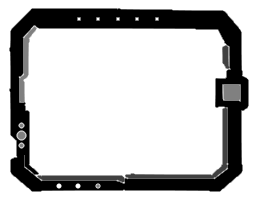
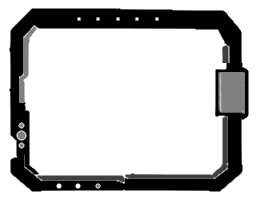
Added locking system, better shooting
New system where the player can go from turret mode to spaceship mode
and they nicely blend together.

Changed region(s): [[0.8, 0.3, 0.9846, 0.6]]

diff --git a/TurretProject/Player.cpp b/TurretProject/Player.cpp
@@ -47,21 +47,48 @@ void Player::Initialise()
 	{
 		// error...
 	}
+	if (!m_lockedTexture.loadFromFile("lock.png"))
+	{
+		// error...
+	}
+	if (!m_unlockedTexture.loadFromFile("unlock.png"))
+	{
+		// error...
+	}
+	if (!m_lockingTexture.loadFromFile("locking.png"))
+	{
+		// error...
+	}
+	if (!m_landingzoneTexture.loadFromFile("landingzone.png"))
+	{
+		// error...
+	}
+
 	m_sprite.setTexture(m_texture);
 	m_sprite.setOrigin(40, 35);//40,40
+
+	m_lockSprite.setTexture(m_lockedTexture);
+	m_landingzoneSprite.setTexture(m_landingzoneTexture);
+
+	lockSpeed = 50;
+
 	m_radius = 30;
 	m_speed = 100;
 	maxSpeed = 500;
 	forward_speed = 0;
-	m_rotation = -90;
+	m_rotation = 270;
 	m_direction = sf::Vector2f(cos(toRadians(m_rotation)), sin(toRadians(m_rotation)));
-	m_pos = sf::Vector2f(1350, 1800);
+	m_pos = startPos;
 	m_sprite.setPosition(m_pos);
+	m_lockSprite.setPosition(227, 628);
+	m_landingzoneSprite.setPosition(1130,1500);
 	fired = false;
 	firedTime = 0;
 	firedTimeControl = 0.2;
 	fireSide = false;
-	
+	locked = true;
+	turretMode = TURRET;
+
 	buffer.loadFromFile("blaster-firing.wav");
 	sound.setBuffer(buffer);
 }
@@ -91,6 +118,10 @@ void Player::Update(float time)
 		m_sprite.setColor(sf::Color::Magenta);				//sf::Color(50, 190, 150));
 	}
 
+	if (locked == true && turretMode == LOCKING)
+		slowLock(time);
+
+
 	Move(time);
 	WrapAroundScreen();
 	text[3].setString(to_string(Score::GetInstance()->getScore()));
@@ -114,42 +145,59 @@ void Player::Move(float time)
 	m_sprite.setPosition(m_pos);
 	m_sprite.setRotation(m_rotation);
 
-	if (sf::Keyboard::isKeyPressed(sf::Keyboard::Right))
+	if (sf::Keyboard::isKeyPressed(sf::Keyboard::Right) && turretMode != LOCKING)
 	{
 		Rotation(1, time);
 	}
-	else if (sf::Keyboard::isKeyPressed(sf::Keyboard::Left) )
+	else if (sf::Keyboard::isKeyPressed(sf::Keyboard::Left) && turretMode != LOCKING)
 	{
 		Rotation(-1, time);
 	}
-
-	if (sf::Keyboard::isKeyPressed(sf::Keyboard::Up))
+	if (locked == false)
 	{
-		if (forward_speed <= maxSpeed)
-			forward_speed += 10;
-		for (int i = 0; i < 5;i++)
-			ParticleSystem::GetInstance()->addParticle(m_pos,1);
+		if (sf::Keyboard::isKeyPressed(sf::Keyboard::Up))
+		{
+			if (forward_speed <= maxSpeed)
+				forward_speed += 10;
+			for (int i = 0; i < 5; i++)
+				ParticleSystem::GetInstance()->addParticle(m_pos, 1);
+		}
+		else if (sf::Keyboard::isKeyPressed(sf::Keyboard::Down))
+		{
+			if (forward_speed >= 10)
+				forward_speed -= 10;
+		}
+		else if (forward_speed >= 3)
+			forward_speed -= 3;
 	}
-	else if (sf::Keyboard::isKeyPressed(sf::Keyboard::Down))
-	{
-		if (forward_speed >= 10)
-			forward_speed -= 10;
-	}
-	else if (forward_speed >= 3)
-		forward_speed -= 3;
-
-	if (sf::Keyboard::isKeyPressed(sf::Keyboard::Space) && fired == false && Energy::GetInstance()->GetEnergy() >= 0.25)
+	if (sf::Keyboard::isKeyPressed(sf::Keyboard::Space) && fired == false && Energy::GetInstance()->GetEnergy() >= 0.25 && turretMode != LOCKING)
 	{
 		sound.play();
 		Energy::GetInstance()->Shot1();
 
 		if (fireSide == false)
-			BulletManager::GetInstance()->PlayerFire(m_rotation, sf::Vector2f(m_pos.x - 17 + (m_direction.x * 35), m_pos.y + (m_direction.y * 35)));	//(m_pos.x - 17 + (m_direction.x * 120), m_pos.y + (m_direction.y * 120))	// cos(toRadians(m_rotation)
-		else 
-			BulletManager::GetInstance()->PlayerFire(m_rotation, sf::Vector2f(m_pos.x + 10 + (m_direction.x * 35), m_pos.y + (m_direction.y * 35)));	//(m_pos.x + 10 + (m_direction.x * 120), m_pos.y + (m_direction.y * 120))	// sin(toRadians(m_rotation)
+		{
+			float xBefore = 10;
+			float yBefore = -25;
+			float xAfter = xBefore * cos(toRadians(m_rotation)) - yBefore * sin(toRadians(m_rotation));
+			float yAfter = xBefore * sin(toRadians(m_rotation)) + yBefore * cos(toRadians(m_rotation));
+
+		
+			BulletManager::GetInstance()->PlayerFire(m_rotation, sf::Vector2f(m_pos.x + xAfter, m_pos.y + (yAfter)));	//(m_pos.x - 17 + (m_direction.x * 120), m_pos.y + (m_direction.y * 120))	// cos(toRadians(m_rotation)
+		}
+		else
+		{
+			float xBefore = 10;
+			float yBefore = 25;
+			float xAfter = xBefore * cos(toRadians(m_rotation)) - yBefore * sin(toRadians(m_rotation));
+			float yAfter = xBefore * sin(toRadians(m_rotation)) + yBefore * cos(toRadians(m_rotation)) ;
+		
+			BulletManager::GetInstance()->PlayerFire(m_rotation, sf::Vector2f(m_pos.x + xAfter, m_pos.y + (yAfter)));	//(m_pos.x + 10 + (m_direction.x * 120), m_pos.y + (m_direction.y * 120))	// sin(toRadians(m_rotation)
+		}
 
 		fired = true;
 	}
+
 
 	if (fired == true)
 	{
@@ -166,10 +214,25 @@ void Player::Move(float time)
 		}
 	}
 
+
+	if (sf::Keyboard::isKeyPressed(sf::Keyboard::U) && locked == true && turretMode == TURRET)
+	{
+		unlockStuff();
+	}
+	if (sf::Keyboard::isKeyPressed(sf::Keyboard::L) && locked == false && isInLockZone() == true)
+	{
+		lockStuff();
+	}
+
 }
 
 void Player::Draw(sf::RenderWindow& window)
 {
+	if (locked == false)
+	{
+		window.draw(m_landingzoneSprite);
+	}
+
 	window.draw(m_sprite);
 	/*for (int i = 0; i < MAX_NUMBER_OF_ITEMS; i++)
 	{
@@ -185,6 +248,11 @@ void Player::DrawScore(sf::RenderWindow& window)
 	}
 }
 
+void Player::DrawLock(sf::RenderWindow& window)
+{
+	window.draw(m_lockSprite);
+}
+
 float Player::toRadians(float degrees)
 {
 	return (degrees * 3.14) / 180;
@@ -194,6 +262,17 @@ void Player::Rotation(int dir, float t)
 {
 	m_rotation += 1.5 * m_speed * t * dir;
 	m_direction = sf::Vector2f(cos(toRadians(m_rotation)), sin(toRadians(m_rotation)));
+
+
+	if (m_rotation >= 360)
+	{
+		m_rotation = m_rotation - 360;
+	}
+	else if (m_rotation < 0)
+	{
+		m_rotation = 360 - m_rotation;
+	}
+
 }
 
 void Player::WrapAroundScreen()
@@ -207,4 +286,62 @@ void Player::WrapAroundScreen()
 		m_pos.y = 0;
 	else if (m_pos.y < 0)
 		m_pos.y = 1800;
+}
+
+bool Player::isInLockZone()	//checking if the player is in the landing zone and can lock into turret
+{//1130,1500
+	if (m_pos.x > 1130 && m_pos.x < 1550 && m_pos.y > 1500 && m_pos.y < 1800)
+		return true;
+	else
+		return false;
+}
+
+void Player::lockStuff()		//things to do when locked
+{
+	m_lockSprite.setTexture(m_lockingTexture);
+	forward_speed = 0;
+	turretMode = LOCKING;
+	locked = true;
+}
+
+void Player::unlockStuff()		//things to do when unlocked
+{
+	m_lockSprite.setTexture(m_unlockedTexture);
+	forward_speed = 250;
+	turretMode = SPACESHIP;
+	m_direction = sf::Vector2f(cos(toRadians(m_rotation)), sin(toRadians(m_rotation)));
+	locked = false;
+}
+
+void Player::slowLock(float t)
+{
+	if (m_pos.x < startPos.x + 3 && m_pos.x > startPos.x - 3)
+		m_pos.x = startPos.x;
+	else if (m_pos.x < startPos.x)
+		m_pos.x += lockSpeed * t;
+	else if (m_pos.x > startPos.x)
+		m_pos.x -= lockSpeed * t;
+
+	if (m_pos.y < startPos.y + 3 && m_pos.y > startPos.y - 3)
+		m_pos.y = startPos.y;
+	else if (m_pos.y < startPos.y)
+		m_pos.y += lockSpeed * t;
+	else if (m_pos.y > startPos.y)
+		m_pos.y -= lockSpeed * t;
+
+	if (m_rotation < 272 && m_rotation > 268)
+		m_rotation = 270;
+	else if (m_rotation > 270)
+		m_rotation -= lockSpeed * t;
+	else if (m_rotation < 270)
+		m_rotation += lockSpeed * t;
+	
+	m_direction = sf::Vector2f(cos(toRadians(m_rotation)), sin(toRadians(m_rotation)));
+
+
+	if (m_pos == startPos && m_rotation == 270)
+	{
+		turretMode = TURRET;
+		m_lockSprite.setTexture(m_lockedTexture);
+	}
 }

diff --git a/TurretProject/Player.h b/TurretProject/Player.h
@@ -15,6 +15,7 @@ class Player
 		void Update(float time);
 		void Draw(sf::RenderWindow &window);
 		void DrawScore(sf::RenderWindow &window);
+		void DrawLock(sf::RenderWindow &window);
 		void MoveLeft();
 		void MoveRight();
 		void Initialise();
@@ -25,16 +26,37 @@ class Player
 		void SetSpeed(float tS, float mS) { m_speed = tS; maxSpeed = mS; speedBoost = true; }
 		void SetShrink(bool x) { shrink = x; }
 		bool GetShrink() { return shrink; }
+		bool GetLocked() { return locked; }
+
 
 	protected:
+		bool isInLockZone();
+		void lockStuff();
+		void unlockStuff();
+		void slowLock(float t);
+
+		const int TURRET = 0, SPACESHIP = 1, LOCKING = 2;
+
 		sf::Texture m_texture;
 		sf::Sprite m_sprite;
+
+		sf::Texture m_landingzoneTexture;
+		sf::Sprite m_landingzoneSprite;
+
+		sf::Texture m_lockedTexture; 
+		sf::Texture m_unlockedTexture;
+		sf::Texture m_lockingTexture;
+		sf::Sprite m_lockSprite;
+
 		sf::Vector2f m_pos;
+		const sf::Vector2f startPos = sf::Vector2f(1350, 1800);
 		sf::Vector2f m_direction;
 		sf::FloatRect m_bounds;
 		sf::SoundBuffer buffer;
 		sf::Sound sound;
 
+
+		float lockSpeed;
 		int m_radius;
 		float m_speed;
 		float maxSpeed;
@@ -42,6 +64,7 @@ class Player
 		float m_rotation;
 
 		bool locked;
+		int turretMode;
 
 		bool shrink = false;
 		bool speedBoost = false;

diff --git a/TurretProject/Factory.cpp b/TurretProject/Factory.cpp
@@ -1,6 +1,7 @@
 #include "stdafx.h"
 #include "Factory.h"
 #include "ParticleSystem.h"
+#include "Score.h"
 
 Factory::Factory()
 {
@@ -93,6 +94,9 @@ bool Factory::IsColliding()
 		{
 			m_health -= 1;
 			damageSound.play();
+
+			int score = Score::GetInstance()->getScore();
+			Score::GetInstance()->setScore(score + 10);
 		}
 		else
 		{

diff --git a/TurretProject/TurretProject.cpp b/TurretProject/TurretProject.cpp
@@ -443,6 +443,7 @@ int main()
 
 			window.setView(main); //setting view back to main
 			window.draw(radarBorderSpr);
+			p1.DrawLock(window);
 
 			window.display();
 			break;
